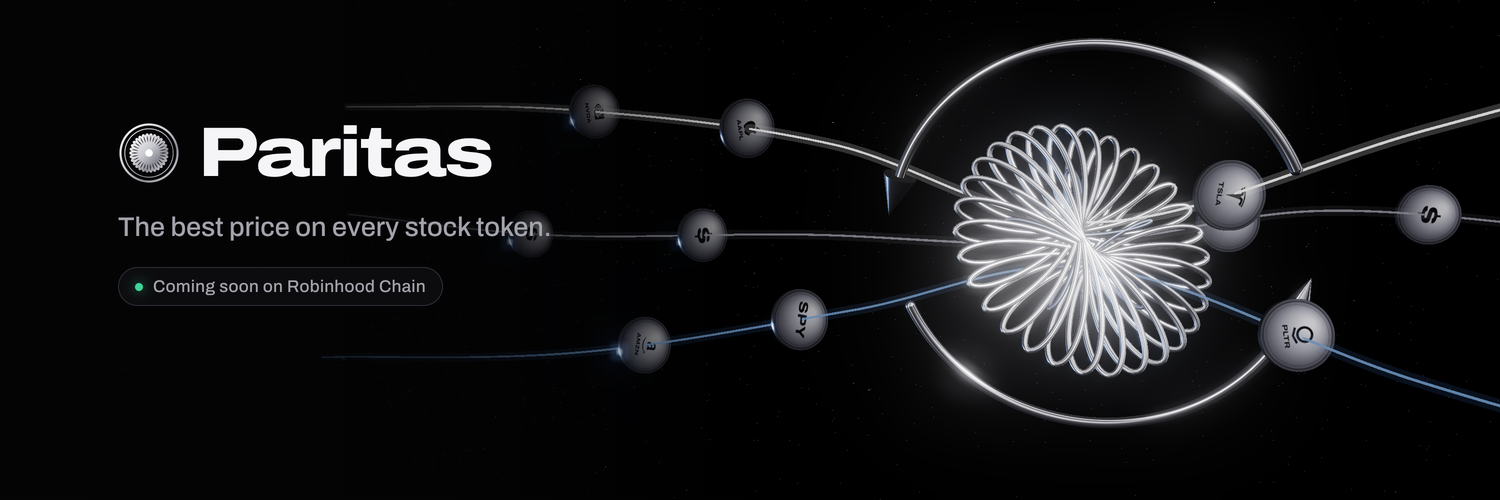
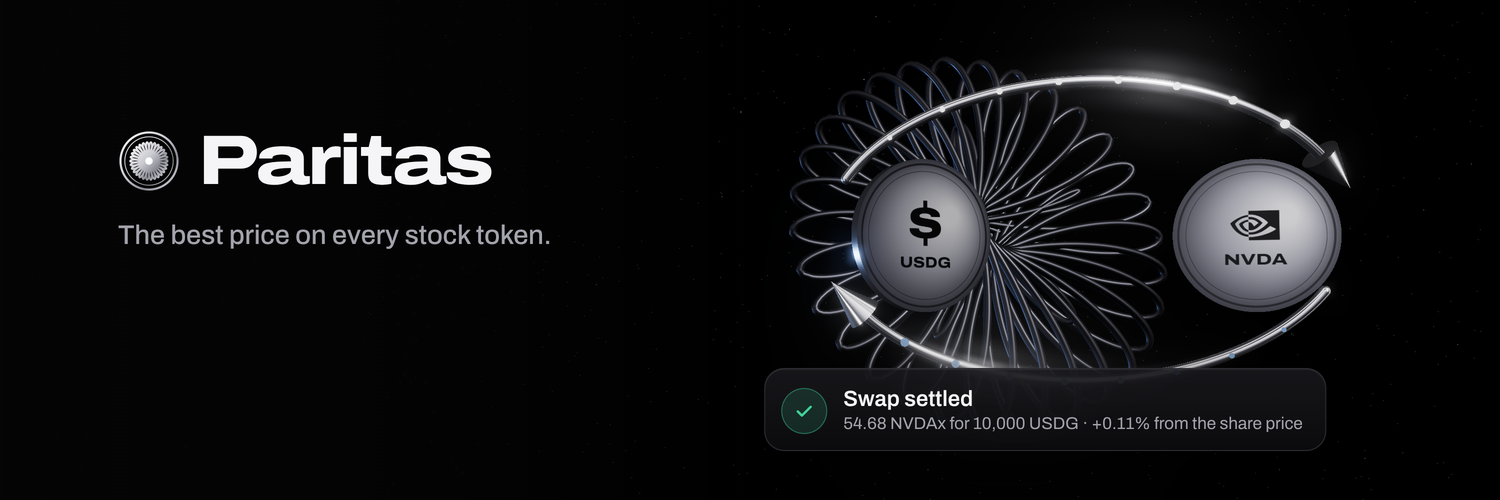
Brand: swap-themed X header and article cover
- X header (1500 x 500), redone. USDG and NVDA coins sit inside two
  chrome swap arrows, the Paritas core is dim behind them, and a
  "Swap settled" card uses the app's own toast copy. "Coming soon" is gone.
- X article cover (2000 x 800, 5:2). The same scene with the headline.

Claude-Session: https://claude.ai/code/session_016rngvqt3AhP7HCRqHKghmV

Changed region(s): [[0.0613, 0.06, 1.0, 0.87], [0.092, 0.54, 0.276, 0.6]]

diff --git a/docs/DESIGN_SYSTEM.md b/docs/DESIGN_SYSTEM.md
@@ -53,7 +53,8 @@ ALFA chose the **guilloché seal** (logo round 2, concept F). It is the site's g
   - `paritas-mark.svg`: the small seal.
   - `paritas-seal-2048.png`: full seal, transparent.
   - `paritas-x-profile.png`: X profile photo, 1000 × 1000. X crops it to a circle, so the reeded edge sits at 86% of the radius.
-  - `paritas-x-header.png`: X header, 1500 × 500. The copy sits top left, clear of the profile photo that covers the bottom left.
+  - `paritas-x-header.png`: X header, 1500 × 500: a USDG → NVDA swap settling inside the swap arrows. The copy sits top left, clear of the profile photo that covers the bottom left.
+  - `paritas-x-article-cover.png`: X article cover, 2000 × 800 (5:2), the same scene with the headline.
 - **Rules:**
   - Do not recolour the seal, put it on a colour, or add effects (glow, 3D, gold).
   - Use the full seal at 96 px and up. Below that, use the small seal.
